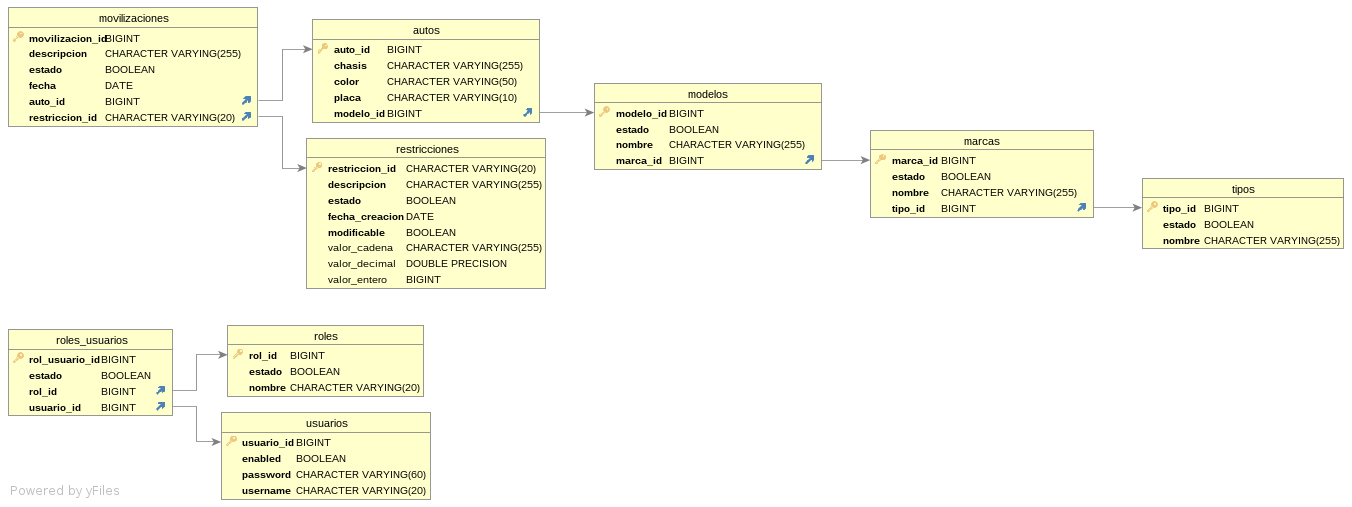
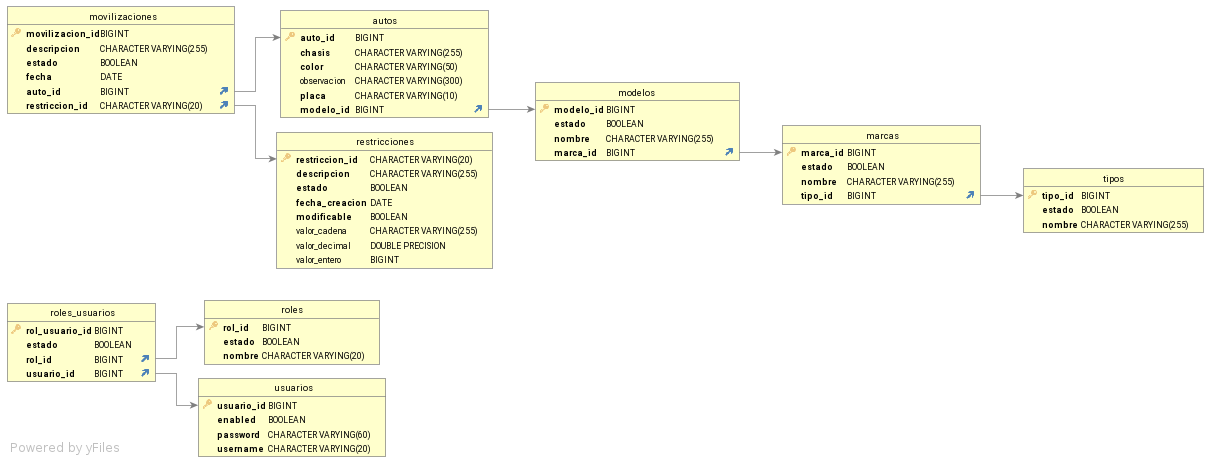
Actaulizacion de diagrama de base de datos, generación del amt.sql y limpieza de mensajes

Changed region(s): [[0.0, 0.0, 1.0, 0.6034], [0.0, 0.6336, 0.3361, 0.9957], [0.0, 0.9353, 0.0917, 0.9957]]

diff --git a/backend-amt/src/main/java/ec/advance/latam/com/controller/AutoController.java b/backend-amt/src/main/java/ec/advance/latam/com/controller/AutoController.java
@@ -119,6 +119,7 @@ public class AutoController {
 	@Secured({ "ROLE_ADMIN", "ROLE_USER" })
 	@GetMapping("/autos/hoynocircula/{placa}/fecha/{fecha}")
 	public ResponseEntity<?> validarHoyNoCircula(@PathVariable String placa, @PathVariable String fecha) {
+		response = new HashMap<>();
 		try {
 			Optional<Auto> auto = autoService.findAutoByPlaca(placa);
 			if (auto.isPresent()) {
